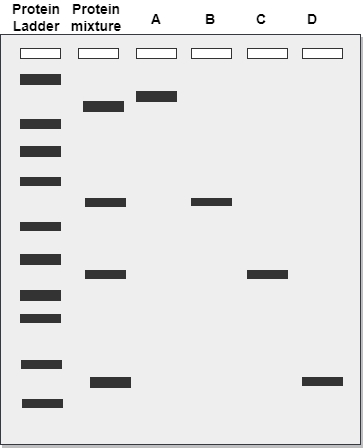
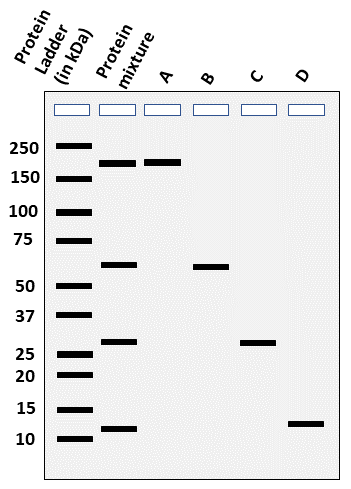
exp7

diff --git a/experiment/simulation/index.html b/experiment/simulation/index.html
@@ -35,11 +35,11 @@ Developer: Prakriti Dhang-->
 								 Now click on the buffer bottle to pass the buffer through the column.
 							</li>
 							<li>Click on the checkbox "Protein mixture" and click "Inject protein sample" button. Now,
-								click on the injection's push button to inject the protiens through the column.</li>
+								click on the plunger to inject the protiens through the column.</li>
 							<li>Now click on the "Elution" button. This will start separating the proteins. The
 								proteins will be stored in the tubes.</li>
 							<li>Click on the "Data Acquisition" button to plot the Absorbance Vs Volume graph</li>
-							<li>Click on the "SDS-PAGE analysis" button. To view the gel, scroll down after clicking "Show" button.</li>
+							<li>Click on the "SDS-PAGE analysis" button. To view the gel, click on "Show" button.</li>
 						</ol>
 						<b>Note:</b> To repeat the experiment, click on the "Re-Do the Experiment" button.
 					</div>
@@ -49,9 +49,7 @@ Developer: Prakriti Dhang-->
 					<div class="card-header fs-5 fw-bold">Action</div>
 					<div class="card-body">
 						<p class="fs-5" id="actionid"></p>
-						<button id="stepgel" type="button"
-										class="btn btn-success border border-1  rounded-3 fs-6 m-1"
-										style="cursor: pointer; float:right; display: none;" onclick="showgel()">Show</button>
+						
 					</div>
 				</div>
 			</div>
@@ -134,7 +132,10 @@ Developer: Prakriti Dhang-->
 								<td>
 									<button id="step5" type="button"
 										class="btn btn-primary border border-1  rounded-3 fs-6 m-1"
-										style="cursor: pointer; " onclick="analyzed()" disabled>SDS-PAGE analysis</button> <!--onclick="dataplot()"-->
+										style="cursor: pointer; " onclick="analyzed()" disabled>SDS-PAGE analysis</button> 
+										<button id="stepgel" type="button"
+										class="btn btn-success border border-1  rounded-3 fs-6 m-1"
+										style="cursor: pointer;  display: none;" onclick="showgel()">Show</button><!--onclick="dataplot()"-->
 								</td>
 							</tr>
 						</table>
@@ -228,8 +229,8 @@ Developer: Prakriti Dhang-->
 			<div class="col-md-6">
 				<div class="card card-body border border-0">
 				<div class="img-container">
-					<img src="./images/ladder.png" id="ladder" class="img-fluid" alt="ladder">
-				<img src="./images/sds-page image.png" id="optgel" class="img-fluid" alt="outputgel">
+				
+				<img src="./images/outputgel.png" id="optgel" class="img-fluid" alt="outputgel">
 			</div>
 			</div>
 				</div>

diff --git a/experiment/simulation/js/main.js b/experiment/simulation/js/main.js
@@ -94,7 +94,7 @@ function injectpush() {
 
   document.getElementById("step21").disabled = true;
   document.getElementById("Check1").checked = false;
-  document.getElementById("actionid").innerHTML="1 column volume buffer is passed through the column for equilibartion.";
+  document.getElementById("actionid").innerHTML="1 column volume buffer is passed through the column for equilibration.";
   //document.getElementById("buffer").style.display = "none";
  // var currentleft = 48;
  // var image = document.getElementById("inject");
@@ -222,8 +222,8 @@ var imgobjips = null;
 function injectpushps() {
 
   document.getElementById("Check2").checked = false;
-  document.getElementById("canvascolumn").style.top = 50 + "%";
-  document.getElementById("canvascolumn").style.height = 15 + "%";
+  document.getElementById("canvascolumn").style.top = 20.5 + "%"; //50
+  document.getElementById("canvascolumn").style.height = 45 + "%";//15
   var currentleft = 48;
   var image = document.getElementById("injectps");
   var image1 = document.getElementById("injectionps");
@@ -415,7 +415,7 @@ function elution() {
   document.getElementById("actionid").innerHTML="Elution started.";
   document.getElementById("step3").disabled = true;
   //ctxgs11.clearRect(0,0,canvass11.width, canvass11.height);
- 
+  document.getElementById("canvascolumn").style.display = "none";
   document.getElementById("canvascolumnpa").style.zIndex = 12;
   //dropbuffer
   var currenttop = 71;
@@ -806,16 +806,17 @@ window.onload = function () {
 }
 
 function analyzed(){
-  document.getElementById("actionid").innerHTML="The samples are further analyzed for their purity using SDS-PAGE gel.";
+  document.getElementById("actionid").innerHTML="The samples are further analyzed for their purity using SDS-PAGE gel. The proteins have been separated on the basis of their molecular weight.";
   document.getElementById("stepgel").style.display="block";
  
 }
 
 function showgel(){
  
-  document.getElementById("actionid").innerHTML="The proteins have been separated on the basis of their molecular weight.";
-  document.getElementById("optgel").style.display="block";
-  document.getElementById("ladder").style.display="block";
-  document.getElementById("stepgel").disabled=true;
   
+  document.getElementById("optgel").style.display="block";
+ 
+  document.getElementById("stepgel").disabled=true;
+ window.scrollBy(0,800);
+
 }

diff --git a/experiment/simulation/css/main.css b/experiment/simulation/css/main.css
@@ -115,9 +115,9 @@ Developer: Prakriti Dhang */
 #canvascolumn {
     position: absolute;
     width: 1.5%;
-    height: 51%;
-    /*15- 55*/
-    top: 14.5%;
+    height:51%;
+    /*15- 51*/
+    top: 14.6%; /*14.5*/
     /*10-50*/
     left: 82.8%;
     z-index: 12;
@@ -281,16 +281,16 @@ Developer: Prakriti Dhang */
 }
 
 
-#ladder{
+/* #ladder{
     position: relative;
-    width:30%; /*60*/
+    width:30%; 
     top: 1%;
     left: 10%;
     display: none;
-}
+} */
 #optgel{
-    position: absolute;
-    width:30%; /*60*/
+    position: relative;
+    width:35%; /*60*/
     top: 1%;
     left: 40%;
     display: none;
